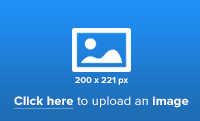
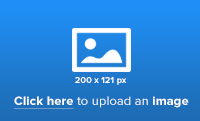
changes to the grid and signup

Changed region(s): [[0.48, 0.6198, 0.66, 0.719]]

diff --git a/css/grid.css b/css/grid.css
@@ -19,11 +19,45 @@ body {
 }
 
 .slide {
-    background-color: #f4f4f4;
+    -moz-border-radius: 5px;
+    -webkit-border-radius: 5px;
+    border-radius: 5px;
+    -moz-background-clip: padding;
+    -webkit-background-clip: padding-box;
+    background-clip: padding-box;
+    background-color: #f7f9fb;
+    -moz-box-shadow: 0 2px 2px rgba(60,84,103,.13);
+    -webkit-box-shadow: 0 2px 2px rgba(60,84,103,.13);
+    box-shadow: 0 2px 2px rgba(60,84,103,.13);
     float: left;
+    cursor: pointer;
     margin-bottom: 24px;
     margin-right: 24px;
+    -webkit-transition:  0.3s ease-in-out;
+    -moz-transition:  0.3s ease-in-out;
+    -ms-transition:  0.3s ease-in-out;
+    -o-transition:  0.3s ease-in-out;
+    transition: 0.3s ease-in-out;	
 }
+
+.slide:hover {
+-moz-border-radius: 5px;
+-webkit-border-radius: 5px;
+border-radius: 5px; /* border radius */
+-moz-background-clip: padding;
+-webkit-background-clip: padding-box;
+background-clip: padding-box; /* prevents bg color from leaking outside the border */
+background-color: #fff; /* layer fill content */
+-moz-box-shadow: 0 9px 21px rgba(39,50,57,.29); /* drop shadow */
+-webkit-box-shadow: 0 9px 21px rgba(39,50,57,.29); /* drop shadow */
+box-shadow: 0 9px 21px rgba(39,50,57,.29); /* drop shadow */
+-webkit-transform: scale(1.05);
+-moz-transform: scale(1.05);
+-o-transform: scale(1.05);
+-ms-transform: scale(1.05);
+transform: scale(1.05);
+}
+
 
 .slide a {
     display: block;
@@ -36,8 +70,8 @@ body {
     box-shadow: 0 0 3px rgba(0,0,0,0.3);
     border: 1px solid rgba(0,0,0,0.3);
     cursor: pointer;
-    max-width: 200px;
-    height: 120px;
+    max-width: 220px;
+    height: 121px;
 }
 
 .slide p {
